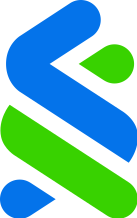
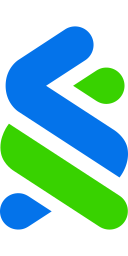
second

diff --git a/convert.py b/convert.py
@@ -1,10 +1,10 @@
 import cairosvg
 from PIL import Image
 
-# Convert SVG to PNG
-cairosvg.svg2png(url="SCB.svg", write_to="temp.png")
 icon_width = 128
 icon_height = 256
+# Convert SVG to PNG
+cairosvg.svg2png(url="SCB.svg", write_to="temp.png", output_width=icon_width, output_height=icon_height)
 
 # Convert PNG to ICO
 img = Image.open("temp.png")
